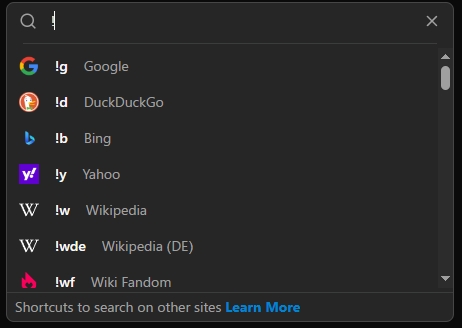
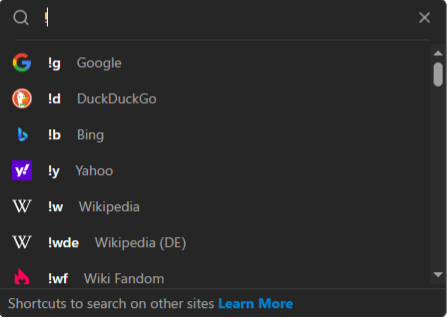
feat: add features section

diff --git a/app/page.tsx b/app/page.tsx
@@ -3,52 +3,164 @@
 import { Button } from "@/components/ui/button";
 import SearchInput from "@/components/search-input";
 import SearchForm from "@/components/search-form";
-import { Search, Sparkles } from "lucide-react";
+import { ArrowDown, ArrowRight, Download, LockKeyhole, Search, Settings, Sparkles, Clipboard, ClipboardCheck } from "lucide-react";
 import Link from "next/link";
+import { useTheme } from "next-themes";
+import { useEffect, useState } from "react";
+import { Input } from "@/components/ui/input";
 
 export default function Home() {
+  const { resolvedTheme } = useTheme();
+  const [mounted, setMounted] = useState(false);
+  const [copyClicked, setCopyClicked] = useState(false);
+
+  useEffect(() => {
+    setMounted(true);
+  }, []);
+
+  if (!mounted) {
+    return null;
+  }
+
   return (
-    <main className="flex-1 flex flex-col items-center justify-start px-4 sm:px-6">
-      <div className="h-0 sm:h-48" />
-      <div className="w-full max-w-md space-y-8">
-        <div className="text-center">
-          <h1 className="text-4xl font-bold tracking-tight">💥 Bang Search</h1>
-          <p className="mt-4 text-sm text-muted-foreground">
-            Use
-            <code className="relative rounded bg-muted px-[0.3rem] py-[0.1rem] font-mono text-sm mx-1">
-              !
-            </code>
-            for bangs or
-            <code className="relative rounded bg-muted px-[0.3rem] py-[0.1rem] font-mono text-sm mx-1">
-              =
-            </code>
-            for calculations.
+    <>
+      <main className="relative flex-1 flex flex-col items-center justify-start px-4 sm:px-6 min-h-[95vh]">
+        <div className="h-0 sm:h-48" />
+        <div className="w-full max-w-2xl space-y-8">
+          <div className="text-center">
+            <h1 className="text-2xl sm:text-3xl md:text-4xl lg:text-6xl/none font-bold tracking-tighter">💥 Bang Search</h1>
+            <p className="mt-4 text-sm text-muted-foreground">
+              Use
+              <code className="relative rounded bg-muted px-[0.3rem] py-[0.1rem] font-mono text-sm mx-1">
+                !
+              </code>
+              for bangs or
+              <code className="relative rounded bg-muted px-[0.3rem] py-[0.1rem] font-mono text-sm mx-1">
+                =
+              </code>
+              for calculations.
+            </p>
+          </div>
+          <SearchForm className="flex flex-col justify-center items-center mt-8 space-y-4">
+            {(value, onChange) => (
+              <>
+                <SearchInput
+                  autoFocus
+                  value={value}
+                  onChange={onChange}
+                  className="w-full max-w-md"
+                />
+                <div className="flex justify-center gap-4">
+                  <Button type="submit" className="px-8 cursor-pointer">
+                    <Search />
+                    Search
+                  </Button>
+                  <Button className="px-8" asChild>
+                    <Link href={"/bangs"}>
+                      <Sparkles />
+                      Bangs
+                    </Link>
+                  </Button>
+                </div>
+              </>
+            )}
+          </SearchForm>
+        </div>
+        <div className="absolute bottom-20 hidden [@media(min-height:600px)]:flex flex-col items-center justify-center gap-4 ">
+          <span className="text-base font-semibold">Find out more</span>
+          <Button variant={"outline"} className="rounded-full size-12" size={"lg"} asChild>
+            <Link href={"#features"}>
+              <ArrowDown className="size-6" />
+              <span className="sr-only">Find out more</span>
+            </Link>
+          </Button>
+        </div>
+      </main>
+      <section id="features" className="flex flex-col items-center justify-start px-4 sm:px-6 overflow-x-hidden">
+        <div className="relative flex flex-col lg:flex-row justify-center md:items-center gap-8 box-content md:min-h-[400px] py-24">
+          <div className="flex flex-col lg:min-w-xl max-w-xl px-4 sm:px-6">
+            <h2 className="tracking-tighter text-4xl sm:text-5xl md:text-6xl lg:text-7xl/none font-bold mb-8">Features</h2>
+            <p className="mb-4 text-xl">
+              <b>Bang Search</b> is a &quot;search engine&quot; that supports:
+            </p>
+            <ul className="list-['💥'] list-inside space-y-4 mb-4 text-lg">
+              <li><b>!Bangs</b>: Shortcuts to search different websites</li>
+              <li><b>Calculations</b>: Use <code className="relative rounded bg-muted px-[0.3rem] py-[0.1rem] font-mono text-sm mx-1">=</code> to perform calculations</li>
+              <li><b>Search History</b>: Save History locally</li>
+            </ul>
+          </div>
+          <div className="relative w-[400px] h-[400px]">
+            <div className="absolute right-12 -top-24 dark:right-24 dark:-top-32 lg:top-42 dark:lg:right-36 dark:lg:top-48 w-[400px] h-[400px] dark:w-[300px] dark:h-[300px] bg-linear-to-tr from-[#ffd319] via-[#ff2975] to-[#8c1eff] rounded-full -z-10 blur-[100px] opacity-60 md:opacity-100 md:dark:opacity-85" />
+            <img className="absolute -right-[125%] shadow-xl min-w-[800px]" src={resolvedTheme === "dark" ? "/bang-search-mockup.png" : "/bang-search-mockup_light.png"} alt="Bang Search Mockup" />
+          </div>
+        </div>
+        <div className="flex flex-col-reverse md:flex-row justify-center items-center md:items-end gap-8 py-24">
+          <img className="shadow-xl roudned-md overflow-hidden" src={resolvedTheme === "dark" ? "/bangs.png" : "/bangs_light.png"} alt="Bangs" width={400} />
+          <div className="flex flex-col w-full max-w-2xl mt-10 px-4 sm:px-6">
+            <h2 className="tracking-tighter text-4xl sm:text-5xl md:text-6xl lg:text-7xl/none font-bold mb-8">!Bangs</h2>
+            <p className="text-lg">
+              Bangs are shortcuts that quickly take you to search results on other sites. For example, when you know you want to search on another site like Wikipedia or Amazon, our bangs get you there fastest. A search for <code className="relative rounded bg-muted px-[0.3rem] py-[0.1rem] font-mono text-sm mx-1 -z-10">!w filter bubble</code> will take you directly to Wikipedia.
+              <br />
+              You can also add your own custom bangs in the settings menu.
+            </p>
+            <Link href={"/bangs"} className="text-sky-600 font-bold hover:underline mt-4 w-fit">Learn More</Link>
+          </div>
+        </div>
+        <div className="flex flex-col md:flex-row justify-center items-center gap-8 py-24">
+          <div className="flex flex-col w-full max-w-2xl mt-10 px-4 sm:px-6">
+            <h2 className="tracking-tighter text-4xl sm:text-5xl md:text-6xl lg:text-7xl/none font-bold mb-8">Search Engine</h2>
+            <p className="mb-4 text-xl">
+              Choose from a variety of search engines like Google, Bing, DuckDuckGo, and more.
+            </p>
+            <p>
+              Find out more in the settings menu
+              <span className="flex items-center gap-1 mt-2">
+                <ArrowRight size={20} />
+                <Settings size={20} />
+              </span>
+            </p>
+          </div>
+          <img src={resolvedTheme === "dark" ? "/search-engine-dropdown.png" : "/search-engine-dropdown_light.png"} alt="Search Engine" width={300} />
+        </div>
+        <div className="flex flex-col justify-center items-center gap-4 py-36">
+          <LockKeyhole size={64} />
+          <h2 className="tracking-tight text-4xl sm:text-5xl md:text-6xl lg:text-7xl/none font-bold mb-8">Privacy</h2>
+          <p className="text-xl sm:text-2xl lg:text-3xl text-center sm:leading-10 lg:leading-14">
+            <b>Bang Search</b> does not track you. Your searches are not stored or shared with third parties.*
+            <br />
+            Everything is done locally in your browser.
+          </p>
+          <p className="text-muted-foreground text-sm text-center">
+            *Bang Search redirects to other websites which may track you.<br /> Please check their privacy policies.
           </p>
         </div>
-        <SearchForm className="mt-8 space-y-4">
-          {(value, onChange) => (
-            <>
-              <SearchInput
-                autoFocus
-                value={value}
-                onChange={onChange}
-              />
-              <div className="flex justify-center gap-4">
-                <Button type="submit" className="px-8 cursor-pointer">
-                  <Search />
-                  Search
-                </Button>
-                <Button className="px-8" asChild>
-                  <Link href={"/bangs"}>
-                    <Sparkles />
-                    Bangs
-                  </Link>
-                </Button>
-              </div>
-            </>
-          )}
-        </SearchForm>
-      </div>
-    </main>
+        <div className="flex flex-col justify-center items-center gap-4 py-24 max-w-2xl">
+          <Download size={72} />
+          <h2 className="tracking-tight text-4xl sm:text-5xl md:text-6xl lg:text-7xl/none font-bold mb-8">Installation</h2>
+          <p className="mb-4 text-xl text-center leading-8">
+            If you want to use <b>Bang Search</b>&apos;s features like !bangs in your own browser you can either set this page as your browsers homepage or add the following URL as a custom search engine to your browser.
+            <br />This enables <Link className="text-muted-foreground underline hover:text-muted-foreground/75" href="/bangs">all of our bangs</Link>.
+          </p>
+          <div className="flex items-center gap-2 w-full max-w-md">
+            <Input readOnly value="https://search.fabian-kleine.dev/search?q=%s" />
+            <Button onClick={() => {
+              navigator.clipboard.writeText("https://search.fabian-kleine.dev/search?q=%s");
+              setCopyClicked(true);
+            }} variant="ghost" size={"lg"} className="size-10 cursor-pointer">
+              {copyClicked ? (
+                <ClipboardCheck />
+              ) : (
+                <Clipboard />
+              )}
+              <span className="sr-only">{copyClicked ? "Copied" : "Copy"}</span>
+            </Button>
+          </div>
+          <p className="text-muted-foreground text-sm text-center">
+            You can add <code className="relative rounded bg-muted px-[0.3rem] py-[0.1rem] font-mono text-sm mx-1">&se=</code> to the URL to define the default search engine.
+            <br /> Possible values are: google, bing, duckduckgo, yahoo and ecosia.
+          </p>
+        </div>
+      </section>
+    </>
   );
 }

diff --git a/app/bangs/page.tsx b/app/bangs/page.tsx
@@ -1,6 +1,6 @@
 "use client";
 
-import { Sparkles } from "lucide-react";
+import { ArrowRight, Settings, Sparkles } from "lucide-react";
 import { bangs } from "@/lib/bangs";
 import IconInput from "@/components/ui/icon-input";
 import { Input } from "@/components/ui/input";
@@ -39,14 +39,21 @@ export default function BangsPage() {
                 </h1>
                 <RetroGrid />
             </div>
-            <div className="flex flex-wrap md:flex-nowrap justify-center items-center gap-8 my-16">
-                <img src={resolvedTheme === "dark" ? "/bangs.png" : "/bangs_light.png"} alt="Bangs" width={400} />
+            <div className="flex flex-col md:flex-row justify-center items-center gap-8 my-16">
+                <img className="shadow-xl" src={resolvedTheme === "dark" ? "/bangs.png" : "/bangs_light.png"} alt="Bangs" width={400} />
                 <div className="flex flex-col max-w-2xl mt-10 px-4 sm:px-6">
                     <p className="mb-4">
                         Bangs are shortcuts that quickly take you to search results on other sites. For example, when you know you want to search on another site like Wikipedia or Amazon, our bangs get you there fastest. A search for <code className="relative rounded bg-muted px-[0.3rem] py-[0.1rem] font-mono text-sm mx-1 -z-10">!w filter bubble</code> will take you directly to Wikipedia.
                     </p>
-                    <p>
+                    <p className="mb-4">
                         Remember, though, because your search is actually taking place on that other site, you are subject to that site’s policies, including its data collection practices.
+                    </p>
+                    <p>
+                        You can also add your own custom bangs in the settings menu.
+                        <span className="flex items-center gap-1 mt-2">
+                            <ArrowRight size={20} />
+                            <Settings size={20} />
+                        </span>
                     </p>
                 </div>
             </div>
@@ -63,7 +70,7 @@ export default function BangsPage() {
                     />
                 </IconInput>
                 {searchValue && (
-                    <p className="text-lg font-semibold">"{searchValue}" results</p>
+                    <p className="text-lg font-semibold">&quot;{searchValue}&quot; results</p>
                 )}
                 <div className="flex flex-wrap justify-center max-w-2xl mt-4 w-full">
                     <ul className="w-full max-h-48 overflow-y-auto">

diff --git a/components/search-input.tsx b/components/search-input.tsx
@@ -56,7 +56,7 @@ export default function SearchInput({ className, value, onChange, ...props }: Se
             try {
                 const result = evaluate(expression);
                 setCalculation(result);
-            } catch (error) {
+            } catch {
                 setCalculation("Syntax Error");
             }
             setIsCalculation(true);
@@ -308,7 +308,7 @@ export default function SearchInput({ className, value, onChange, ...props }: Se
             </div>
 
             {isHistoryVisible && (
-                <div className="absolute box-content top-full left-0 -ml-[1px] w-full bg-accent border border-t-0 border-input rounded-b-md z-10 flex flex-col justif-center">
+                <div className="absolute box-content top-full left-0 -ml-[0.5px] w-full bg-accent border border-t-0 border-input rounded-b-md z-10 flex flex-col justif-center">
                     <div className="px-4 my-1">
                         <Separator decorative />
                     </div>
@@ -368,7 +368,7 @@ export default function SearchInput({ className, value, onChange, ...props }: Se
             {isBangSuggestVisible && (
                 <div
                     ref={bangSuggestContainerRef}
-                    className="absolute box-content top-full left-0 -ml-[1px] w-full bg-accent border border-t-0 border-input rounded-b-md z-10 flex flex-col justif-center overflow-hidden"
+                    className="absolute box-content top-full left-0 -ml-[0.5px] w-full bg-accent border border-t-0 border-input rounded-b-md z-10 flex flex-col justif-center overflow-hidden"
                 >
                     <div className="px-4 my-1">
                         <Separator decorative />
@@ -411,7 +411,7 @@ export default function SearchInput({ className, value, onChange, ...props }: Se
             )}
 
             {isCalculationVisible && (
-                <div className="absolute box-content top-full left-0 -ml-[1px] w-full bg-accent border border-t-0 border-input rounded-b-md z-10 flex flex-col justif-center">
+                <div className="absolute box-content top-full left-0 -ml-[0.5px] w-full bg-accent border border-t-0 border-input rounded-b-md z-10 flex flex-col justif-center">
                     <div className="px-4 my-1">
                         <Separator decorative />
                     </div>

diff --git a/app/layout.tsx b/app/layout.tsx
@@ -4,6 +4,7 @@ import "./globals.css";
 import { ThemeProvider } from 'next-themes';
 import Header from "@/components/header";
 import Footer from "@/components/footer";
+import { Suspense } from "react";
 
 const geistSans = Geist({
   variable: "--font-geist-sans",
@@ -17,7 +18,7 @@ const geistMono = Geist_Mono({
 
 export const metadata: Metadata = {
   title: "Bang Search",
-  description: "A search engine supporting bangs like DuckDuckGo",
+  description: "A \"search engine\" supporting !bangs and more",
 };
 
 export default function RootLayout({
@@ -26,15 +27,17 @@ export default function RootLayout({
   children: React.ReactNode;
 }>) {
   return (
-    <html lang="en" suppressHydrationWarning>
+    <html lang="en" suppressHydrationWarning className="scroll-smooth">
       <body
-        className={`${geistSans.variable} ${geistMono.variable} antialiased`}
+        className={`${geistSans.variable} ${geistMono.variable} antialiased scroll-smooth`}
       >
         <ThemeProvider attribute="class" defaultTheme="system" enableSystem>
           <div className="flex flex-col min-h-screen">
-            <Header />
-            {children}
-            <Footer />
+            <Suspense fallback={<div className="flex-1 flex items-center justify-center">Loading...</div>}>
+              <Header />
+              {children}
+              <Footer />
+            </Suspense>
           </div>
         </ThemeProvider>
       </body>

diff --git a/app/search/route.ts b/app/search/route.ts
@@ -5,7 +5,7 @@ export async function GET(request: NextRequest) {
     const { searchParams } = new URL(request.url);
 
     let q = searchParams.get("q") || searchParams.get("query");
-    let searchEngine = searchParams.get("se") || searchParams.get("searchEngine") || "google";
+    const searchEngine = searchParams.get("se") || searchParams.get("searchEngine") || "google";
 
     if (!q) {
         q = "search";
